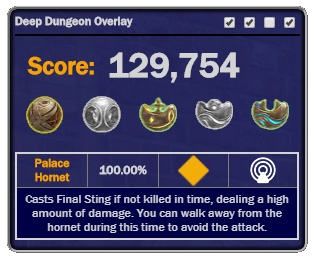
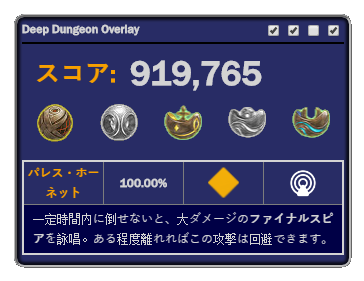
ja display updates

diff --git a/overlay/css/display.css b/overlay/css/display.css
@@ -1,8 +1,13 @@
-* {
+:lang(en), :lang(fr), :lang(de){
     font-family: "Franklin Gothic Medium";
     font-size: 12px;
     box-sizing: border-box;
 }
+:lang(ja){
+    font-family: "ヒラギノ角ゴ Pro W3", "Hiragino Kaku Gothic Pro", Osaka, メイリオ, Meiryo, "ＭＳ Ｐゴシック", "MS PGothic", "ＭＳ ゴシック" , "MS Gothic", "Noto Sans CJK JP", TakaoPGothic, sans-serif;
+    font-size: 10px;
+    line-height: 175%;
+    box-sizing: border-box;}
 
 body, html {
     margin: 0;
@@ -144,6 +149,7 @@ th,
     background-color: rgb(0, 0, 70);
     display:flex;
     align-items: center;
+    vertical-align: top;
     justify-content: space-between;
     margin-left: 10px;
     margin-right: 10px;
@@ -154,6 +160,18 @@ th,
     padding-right: 5px;
     margin-bottom:5px;
     color:white;
+    position: relative;
+}
+#MapClearCheckBox{
+    position:absolute;
+    left: 5;
+    top: 10;
+}
+#MapSettingInfo{
+    display: inline-block;
+    vertical-align: top;
+    position: relative;
+    padding-left: 25px;
 }
 
 button{

diff --git a/overlay/index.html b/overlay/index.html
@@ -70,6 +70,7 @@
                 default:
                     break;
             }
+            document.documentElement.setAttribute('lang', displayOverlayLocale);
 
             await DDO.LoadBestiary(displayOverlayLocale);
             
